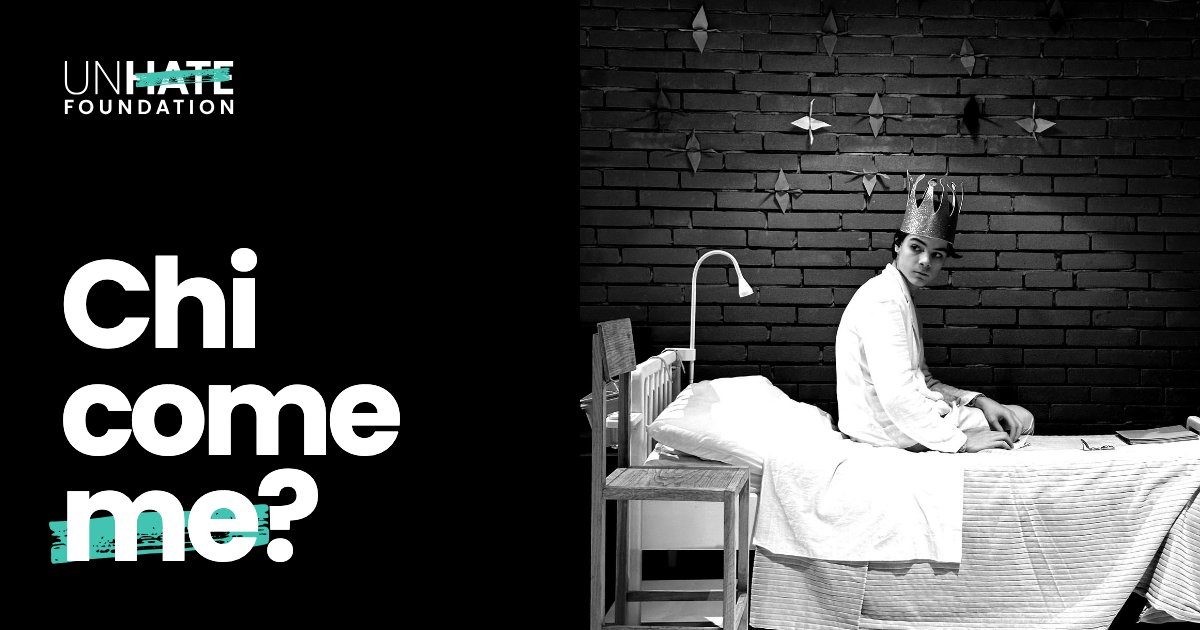
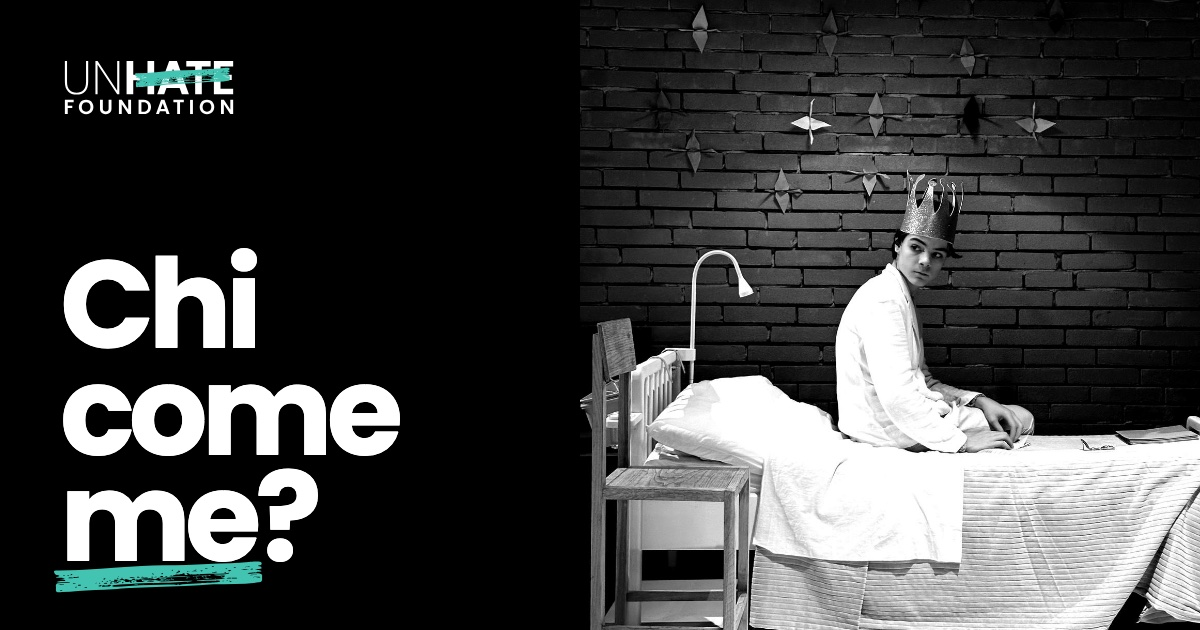
Ultimi ritocchi: og-image, ultima schermata, barra di Safari, indirizzo con la barra finale
- og-image.jpg: pennellata sotto "me", come una sottolineatura
- Ultima schermata dell'animazione: tolto "E anche loro:"
- Animazione: lo strato copre tutto lo schermo (100lvh) e html/body prendono
  il colore della schermata attiva, per la barra in basso di Safari
- og:url e testo condiviso con l'indirizzo ufficiale https://www.unhatefoundation.org/chicomeme/

Changed region(s): [[0.0308, 0.7841, 0.2467, 0.9349]]

diff --git a/index.html b/index.html
@@ -15,7 +15,7 @@
 <meta property="og:type" content="website">
 <meta property="og:title" content="Chi come me? Più persone di quanto pensi.">
 <meta property="og:description" content="Strumenti per capire, parlare e chiedere aiuto. Per genitori, insegnanti, educatori o per chi ha semplicemente a cuore i ragazzi. Da Unhate Foundation">
-<meta property="og:url" content="https://www.unhatefoundation.org/chicomeme">
+<meta property="og:url" content="https://www.unhatefoundation.org/chicomeme/">
 <meta property="og:image" content="https://www.unhatefoundation.org/chicomeme/og-image.jpg">
 <meta property="og:image:type" content="image/jpeg">
 <meta property="og:image:width" content="1200">
@@ -26,7 +26,7 @@
 <meta name="twitter:card" content="summary_large_image">
 <link rel="preload" href="assets/font/poppins-700.woff2" as="font" type="font/woff2" crossorigin>
 <link rel="preload" href="assets/font/poppins-400.woff2" as="font" type="font/woff2" crossorigin>
-<link rel="stylesheet" href="css/stile.css?v=20261119b">
+<link rel="stylesheet" href="css/stile.css?v=20261119c">
 <script>
   /* Animazione d'apertura: una sola volta per visita. Con "riduci movimento" si vede
      subito l'ultima schermata, ferma. In sessionStorage salviamo solo un segnale "già vista",
@@ -42,7 +42,7 @@
     } catch (e) {}
   })();
 </script>
-<script src="js/pagina.js?v=20261119b" defer></script>
+<script src="js/pagina.js?v=20261119c" defer></script>
 <!-- Google Analytics 4: Cookiebot lo attiva solo con il consenso "Marketing", come sul sito della Fondazione.
      Senza consenso questi due script non vengono eseguiti e non parte nessuna chiamata a Google. -->
 <script type="text/plain" data-cookieconsent="marketing" src="https://www.googletagmanager.com/gtag/js?id=G-060Y6CT574" async></script>
@@ -81,7 +81,7 @@
   <div class="intro-schermo intro-bianco">
     <div class="intro-fine">
       <p class="intro-fine-titolo">Più persone di quanto pensi.</p>
-      <p class="intro-fine-testo">E anche loro: secondo Unfiltered, quasi 1 ragazzo su 2 tra i 13 e i 24 anni è «sfiduciato sotto pressione» (24%) o «irrequieto in bilico» (25%).</p>
+      <p class="intro-fine-testo">Secondo Unfiltered, quasi 1 ragazzo su 2 tra i 13 e i 24 anni è «sfiduciato sotto pressione» (24%) o «irrequieto in bilico» (25%).</p>
       <p class="intro-fine-fonte">Fonte: Unfiltered, la ricerca di Unhate Foundation.</p>
     </div>
   </div>
@@ -95,6 +95,8 @@
     var intro = document.getElementById('intro');
     /* Toglie del tutto l'animazione dalla pagina: nessun livello resta sopra i contenuti */
     function togli() {
+      html.style.backgroundColor = '';
+      if (document.body) document.body.style.backgroundColor = '';
       html.classList.remove('con-intro', 'intro-uscita');
       if (intro && intro.parentNode) intro.parentNode.removeChild(intro);
       intro = null;
@@ -110,9 +112,16 @@
     var ridotto = window.matchMedia('(prefers-reduced-motion: reduce)').matches;
     var passo = 0, timer = null, finita = false, yInizio = null;
 
+    /* Safari colora la barra in basso guardando lo sfondo della pagina: durante l'animazione
+       html e body prendono il colore della schermata attiva, alla fine tornano normali */
+    function sfondo(colore) {
+      html.style.backgroundColor = colore;
+      if (document.body) document.body.style.backgroundColor = colore;
+    }
     function mostra(n) {
       passo = n;
       clearTimeout(timer);
+      sfondo(getComputedStyle(schermi[n]).backgroundColor);
       /* sull'ultima schermata il pulsante non salta più: chiude e porta alla pagina */
       bottone.textContent = n === ULTIMO ? 'Continua ↓' : 'Salta';
       for (var i = 0; i < schermi.length; i++) schermi[i].classList.toggle('attivo', i === n);
@@ -944,7 +953,7 @@
     <div class="gesto-card c-giallo">
       <p class="gesto-attacco"><em>Stasera, a cena, prova a chiedere:</em></p>
       <p class="gesto-domanda"><strong>Qual è stata la cosa <span class="segnata">più bella<img class="pennellata dipingi" src="assets/loghi/unhate-pennellata.svg" alt="" aria-hidden="true"></span> della tua settimana?</strong></p>
-      <a class="btn btn-nero btn-grande" href="https://wa.me/?text=Ho%20trovato%20questa%20pagina%20utile%20per%20parlare%20con%20i%20ragazzi.%20%C3%88%20nata%20dallo%20spettacolo%20Chi%20come%20me%3A%20https%3A%2F%2Fwww.unhatefoundation.org%2Fchicomeme" target="_blank" rel="noopener" data-condividi><svg class="ico" aria-hidden="true"><use href="assets/icone.svg#share-network"/></svg>Passaparola</a>
+      <a class="btn btn-nero btn-grande" href="https://wa.me/?text=Ho%20trovato%20questa%20pagina%20utile%20per%20parlare%20con%20i%20ragazzi.%20%C3%88%20nata%20dallo%20spettacolo%20Chi%20come%20me%3A%20https%3A%2F%2Fwww.unhatefoundation.org%2Fchicomeme%2F" target="_blank" rel="noopener" data-condividi><svg class="ico" aria-hidden="true"><use href="assets/icone.svg#share-network"/></svg>Passaparola</a>
     </div>
   </section>
 
@@ -1026,7 +1035,7 @@
       <a href="https://www.linkedin.com/company/unhate-foundation" target="_blank" rel="noopener"><svg class="ico" aria-hidden="true"><use href="assets/icone.svg#linkedin-logo"/></svg>LinkedIn</a>
     </div>
 
-    <a class="piede-condividi" href="https://wa.me/?text=Ho%20trovato%20questa%20pagina%20utile%20per%20parlare%20con%20i%20ragazzi.%20%C3%88%20nata%20dallo%20spettacolo%20Chi%20come%20me%3A%20https%3A%2F%2Fwww.unhatefoundation.org%2Fchicomeme" target="_blank" rel="noopener" data-condividi><svg class="ico" aria-hidden="true"><use href="assets/icone.svg#share-network"/></svg>Passaparola</a>
+    <a class="piede-condividi" href="https://wa.me/?text=Ho%20trovato%20questa%20pagina%20utile%20per%20parlare%20con%20i%20ragazzi.%20%C3%88%20nata%20dallo%20spettacolo%20Chi%20come%20me%3A%20https%3A%2F%2Fwww.unhatefoundation.org%2Fchicomeme%2F" target="_blank" rel="noopener" data-condividi><svg class="ico" aria-hidden="true"><use href="assets/icone.svg#share-network"/></svg>Passaparola</a>
 
     <ul class="piede-link">
       <li><a href="https://www.unhatefoundation.org/it/privacy-policy">Privacy policy</a></li>

diff --git a/js/pagina.js b/js/pagina.js
@@ -228,7 +228,7 @@ const INFORMATIVA_URL = 'https://www.unhatefoundation.org/it/informativa-privacy
 
   /* ---------- Condivisione ---------- */
   function condivisione() {
-    const testo = 'Ho trovato questa pagina utile per parlare con i ragazzi. È nata dallo spettacolo Chi come me: https://www.unhatefoundation.org/chicomeme';
+    const testo = 'Ho trovato questa pagina utile per parlare con i ragazzi. È nata dallo spettacolo Chi come me: https://www.unhatefoundation.org/chicomeme/';
     document.querySelectorAll('[data-condividi]').forEach((a) => {
       a.addEventListener('click', (e) => {
         if (navigator.share) {

diff --git a/css/stile.css b/css/stile.css
@@ -126,7 +126,8 @@ main { padding-top: var(--barra); }
 .con-intro body { overflow: hidden; }
 .con-intro .intro, .intro-uscita .intro {
   display: block;
-  position: fixed; inset: 0; z-index: 500;
+  /* fino al fondo reale dello schermo, anche sotto la barra dell'indirizzo di Safari */
+  position: fixed; top: 0; left: 0; right: 0; bottom: auto; height: 100vh; height: 100lvh; z-index: 500;
   background: var(--bianco);
   cursor: pointer;
   user-select: none; -webkit-user-select: none;
